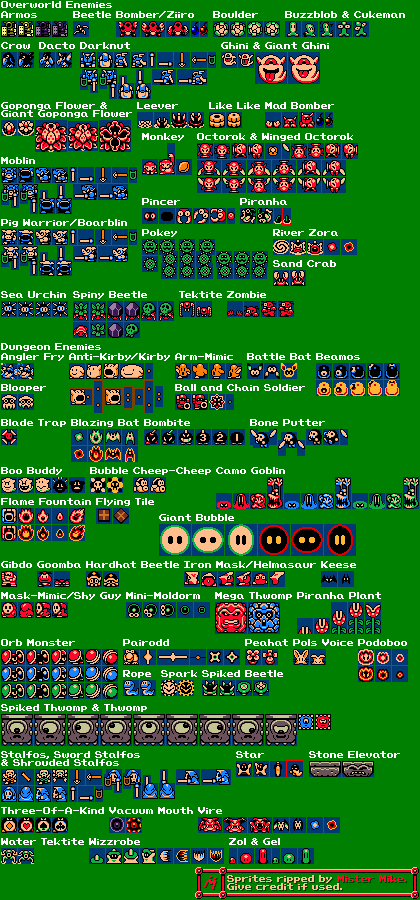
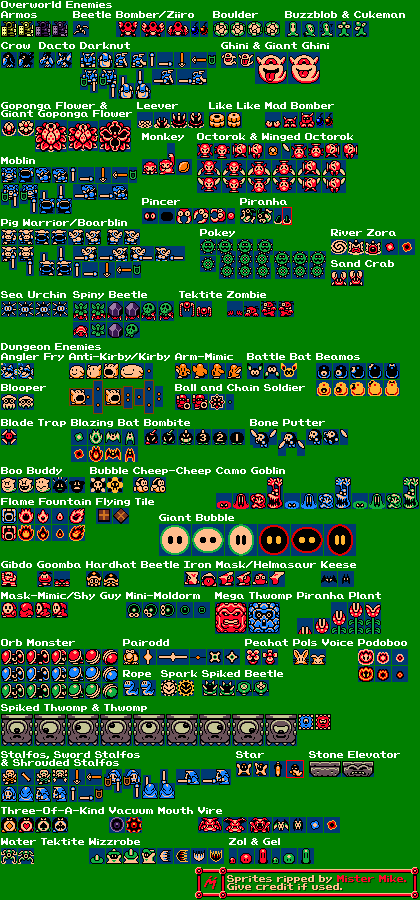
added pigWarrior class, movment strategy design pattarn, edit enemys sprite sheet, added collitions of the pig and start of attak stage for the pig

Changed region(s): [[0.0, 0.2489, 0.9905, 0.3422]]

diff --git a/include/MovingObjects/Boulder.h b/include/MovingObjects/Boulder.h
@@ -11,6 +11,11 @@ public:
 
 	virtual void update(const sf::Time&) override;
 	virtual void handleCollision() override;
+	virtual const sf::Vector2u& getAnimationTexturePosition(Input) override 
+	{
+		return ANIMATIONS_POSITIONS::PigWarriorRight;
+	};
+
 
 private:
 	static bool m_registerit;
